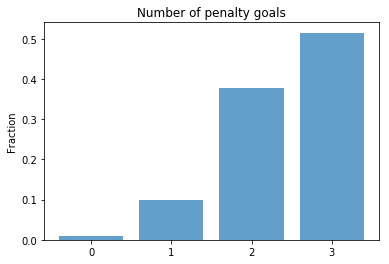
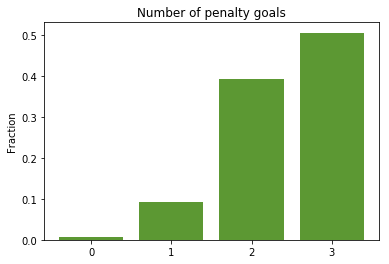
Update lab to include plot will fix Issue #1

diff --git a/README.md b/README.md
@@ -1,0 +1,191 @@
+
+# Bernoulli and Binomial Distribution
+
+## Introduction
+
+Now that you have started calculating your own probabilities, let's take it a little step further and talk about the notion of a *probability model*. Broadly speaking, a probability model is the mathematical representation of a random phenomenon. We have seen mathematical representations of probability before, for example, you may recall this expression for probability of a certain event when having equally likely outcomes:
+
+$P(E)= \dfrac{| E|}{|S|}$ 
+
+In this section, we'll discuss 2 foundational probability distributions that are extremely useful and have an endless amount of applications: the Bernoulli distribution the Binomial distribution.
+
+## Objectives
+
+You will be able to:
+
+- Understand that the Bernoulli experiment is one of the basic distributions
+- Understand how a Bernoulli experiment can describe a coin flip, and that it can be extended to other applications
+- Learn what it means when events are independent
+- Learn that the binomial distribution models a sequence of independent Bernoulli events
+- Understand how to use NumPy to randomly generate Binomial and Bernoulli trials
+- Use Matplotlib to show the output of generated Binomial and Bernoulli trials
+
+
+## The Bernoulli or Binary distribution
+
+In the previous sections, we discussed several probability theory situations regarding throwing a dice, or throwing a coin. The Bernoulli distribution formalizes the idea of a coin flip. 
+
+The Bernoulli experiment is a simple experiment in which we have a binary
+outcome: 0-1, succes-failure, head-tail, etc. 
+
+As the Bernoulli experiment has two potential outcomes: 0 or 1, and if we would model a coin flip, we could say that 0 means heads, and 1 tails. With a fair coin, obtaining either value when performing a coin toss would have an assigned probability of 0.5. The Bernoulli experiment can also describe events with different probability structures. For example, let's say that the chance of scoring a penalty goal is 80%. Where $Y$ is the penalty outcome:
+
+$Y = Bernoulli(p)$ and $p=P(Y=1)=0.8$.
+
+So we say that the Bernoulli distribution has one parameter $p$.
+
+Note how the Bernoulli distribution describes a single coin flip, a single penalty shot, etc. What if we repeat this process multiple times and are interested in the probability to obtain a certain numbers of 1s/successes/tails? This process is described by the **binomial distribution**.
+
+## The Binomial distribution
+
+The binomial distribution describes the process of performing several (denoted by $n$) *independent* Bernoulli trials. So what does it mean that the trials are independent?
+
+When we say that events are **independent, this means that an event is not affected by previous events**.
+
+Applying this to our penalty goal example, this means that the assumption is that, when a soccer player misses a penalty and then tries again, the fact that he missed it the previous time does not affect his chances of hitting it now: the probability is still 80% ($p=0.8$)!
+
+
+As we have a repeated Bernoulli experiment, the binomial distribution has two parameters: $p$ (the success probability) and $n$ (the amount of times the experiment is repeated). We say that random variable $Y$ follows a Binomial distribution:
+$ Y = bin(n, p)$. 
+
+
+Now we're interested in finding an expression that gives us the probability to find a each possible amount of successes $k$ between 0 and n. Going back to our goal penalties example, imagine we still have $p = 0.8$, but have 3 consecutive penalty shots. What is:
+- $P(Y=0)$ (or the soccer player doesn't score a single time)?
+- $P(Y=1)$ (or the soccer player scores exactly once)?
+- $P(Y=2)$ (or the soccer player scores exactly twice)?
+- $P(Y=3)$ (or the soccer player scores exactly three times)?
+
+
+Calculating $P(Y=0)$ is pretty easy, it's simply $0.2*0.2*0.2$, so 0.008. 
+
+Getting to $P(Y=1)$ is a little bit more complicated. It's essentially $0.8*0.2*0.2+0.2*0.8*0.2+ 0.2*0.2*0.8$, so it's the probability of scoring during the first shot, or the second shot, or the third shot. So essentially, its $3*(0.8*0.2*0.2)$. You can see how combinatorics play a role here! The general formula is given as follows:
+
+$$ P(Y=k)= \binom{n}{k} p^k(1-p)^{(n-k)}$$ 
+
+
+Where $k$ denites the number of successes. Applying this on $P(Y=2)$ we get $ P(Y=2)= \binom{3}{2} 0.8^2(1-0.8)^{(3-2)} = \dfrac{3!}{2!1!}*0.8^2 * 0.2^1 = 3*0.8^2*0.2$. Note how
+
+- $P(Y=0)=0.008$
+- $P(Y=1)=0.096 $ 
+- $P(Y=2)=0.384 $ 
+- $P(Y=3)=0.512$ 
+
+
+Note how they sum to one, which is exactly what's expected!
+
+## Use NumPy to randomly generate Binomial and Bernoulli trials.
+
+We've come across random sampling before, but we'll formalize this in this section. 
+When we're performing random sampling, what we're basically doing is selecting a sample from a statistical population in such a way that every possible sample has a predetermined probability of being selected.
+
+Applied to our example, imagine that 1 represents scoring a penalty and 0 represents missing. If $p = 0.8$, if you'll do 100 penalties in a row, you'd expect to have about 80 hits. The reason why it's not exactly 80 is because uncertainty plays a role, and this is exactly what you can model using the NumPy random library! Below, we're using `np.random.binomial` to generate how many successful penalties we have when shooting 100 penalties.
+
+
+```python
+import numpy as np
+np.random.seed(123) # set a seed to get the same results
+np.random.binomial(100, 0.8)
+```
+
+
+
+
+    78
+
+
+
+Now, let's try this again:
+
+
+```python
+np.random.binomial(100, 0.8)
+```
+
+
+
+
+    82
+
+
+
+And again:
+
+
+```python
+np.random.binomial(100, 0.8)
+```
+
+
+
+
+    83
+
+
+
+You can see how this number changes slightly every time and fluctuates around 100. If you'd repeat this many times, you could expect that the amount of successes will converge to 80. Let's illustrate with the for loop below which repeats this 500 times:
+
+
+```python
+iteration = []
+for loop in range(500):
+    iteration.append(np.random.binomial(100, 0.8))
+    np_it = np.array(iteration)
+```
+
+
+```python
+sum(np_it)/500
+```
+
+
+
+
+    80.052
+
+
+
+Now we'll use `np.random.binomial` to illustrate out findings regarding penalties above. Let's keep track of how many times we observe 0 goals, 1 goal, 2 goals, and 3 goals and find the probabilities through simulation. Now, lets repeat our experiment 10000 times.
+
+
+```python
+n = 10000
+iteration = []
+for loop in range(n):
+    iteration.append(np.random.binomial(3, 0.8))
+    np_it = np.array(iteration)
+```
+
+np_it stores the total penalty goal outcomes (0 to 3) for each of the 10000 iterations. Now using `np.unique()` with the optional argument `return_counts`, you get the levels of the $k$ as in your Binomial formula along with how often they occurred when running 10000 trials.
+
+
+```python
+values, counts = np.unique(np_it, return_counts=True)
+print(values)
+print(counts)
+```
+
+    [0 1 2 3]
+    [  58  929 3946 5067]
+
+
+## Visualize these results
+
+Now, let's use these results and visualize them in terms of fractions. You'll see that these fractions approximations of the values as calculated in the Binomial distribution formula. 
+
+
+```python
+import matplotlib.pyplot as plt
+plt.bar(values, counts/10000, align='center', alpha=0.7)
+plt.xticks(values)
+plt.ylabel('Fraction')
+plt.title('Number of penalty goals')
+plt.show()
+```
+
+
+![png](index_files/index_26_0.png)
+
+
+## Summary
+
+In this lecture you learned about the Bernoulli and Binomial distributions, you learned how to use the formula for the Binomial distribution, and how to simulate Binomial trials to get to approximations of the Binomial distribution probabilities.
